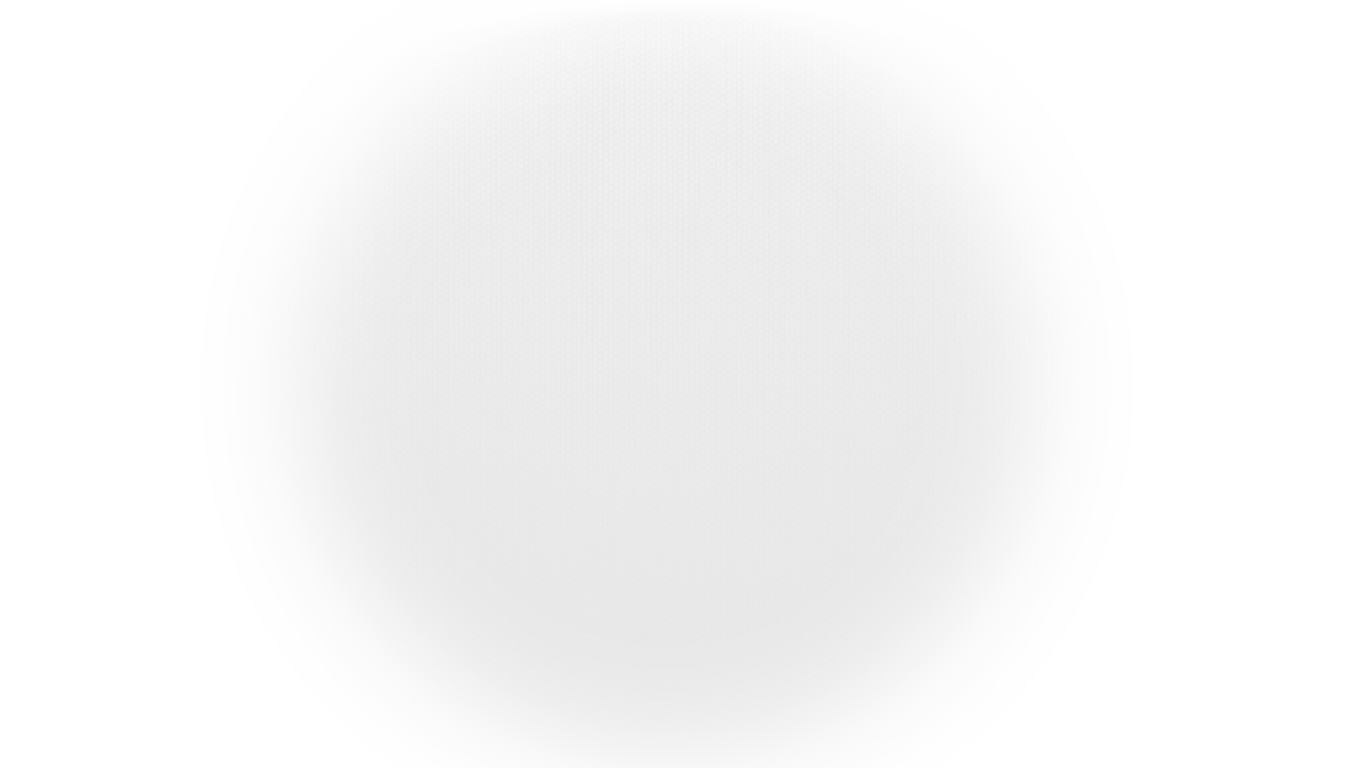
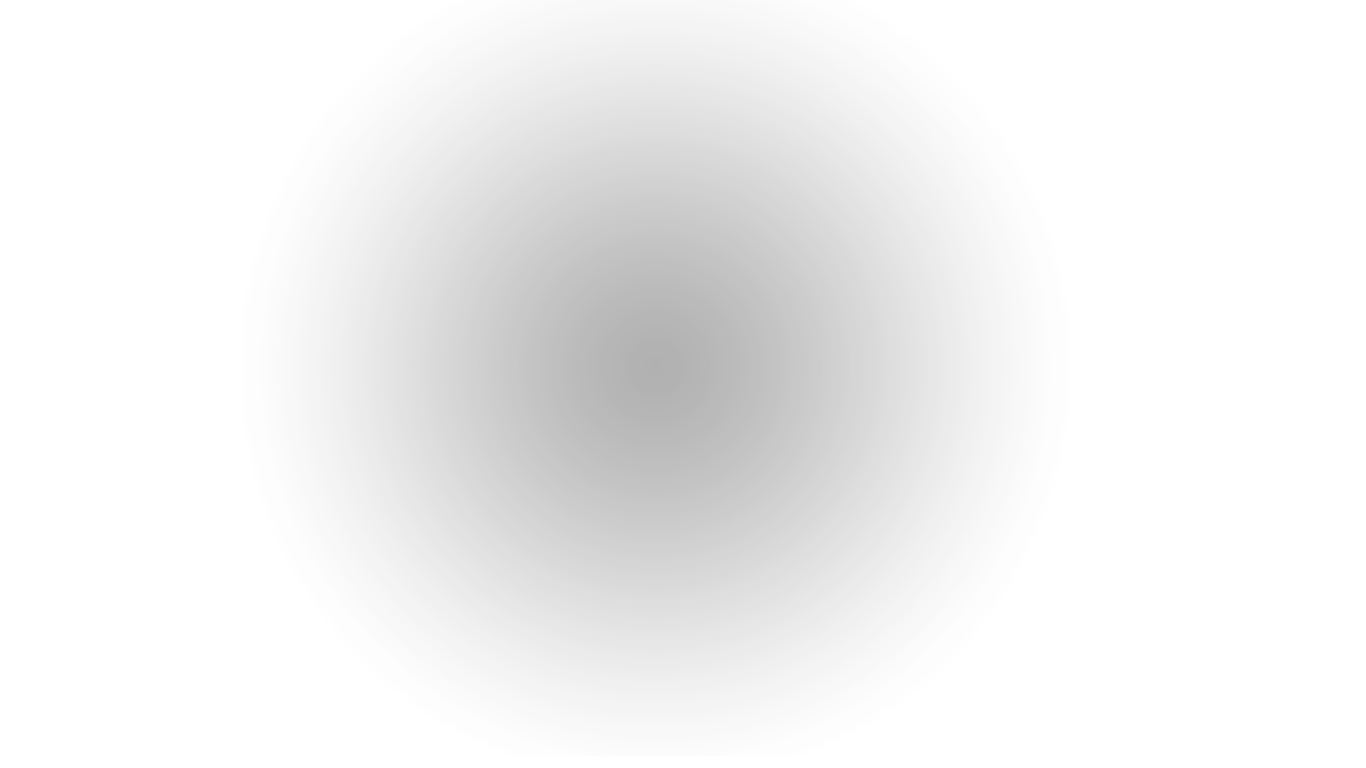
bg change

Changed region(s): [[0.3382, 0.1875, 0.6149, 0.7188]]

diff --git a/Hemsida C3LOOPS/Demo-slide.html b/Hemsida C3LOOPS/Demo-slide.html
@@ -208,6 +208,15 @@ body {
   margin-top: -75px;
 }
 
+#indexbg {
+width: 1366px;
+height: 768px;
+position: absolute;
+top:50%;
+left:50%;
+margin-left: -643px;
+margin-top: -370px;
+}
 
 </style>
 </head>
@@ -218,6 +227,7 @@ body {
 	<div id="mask">
 
 		<div id="item1" class="item">
+			<div id="indexbg"><img src="grafik/c3loops/index-bg.png"></div>
 			<a name="item1"></a>
 			
 			<!-- webshop image map -->
